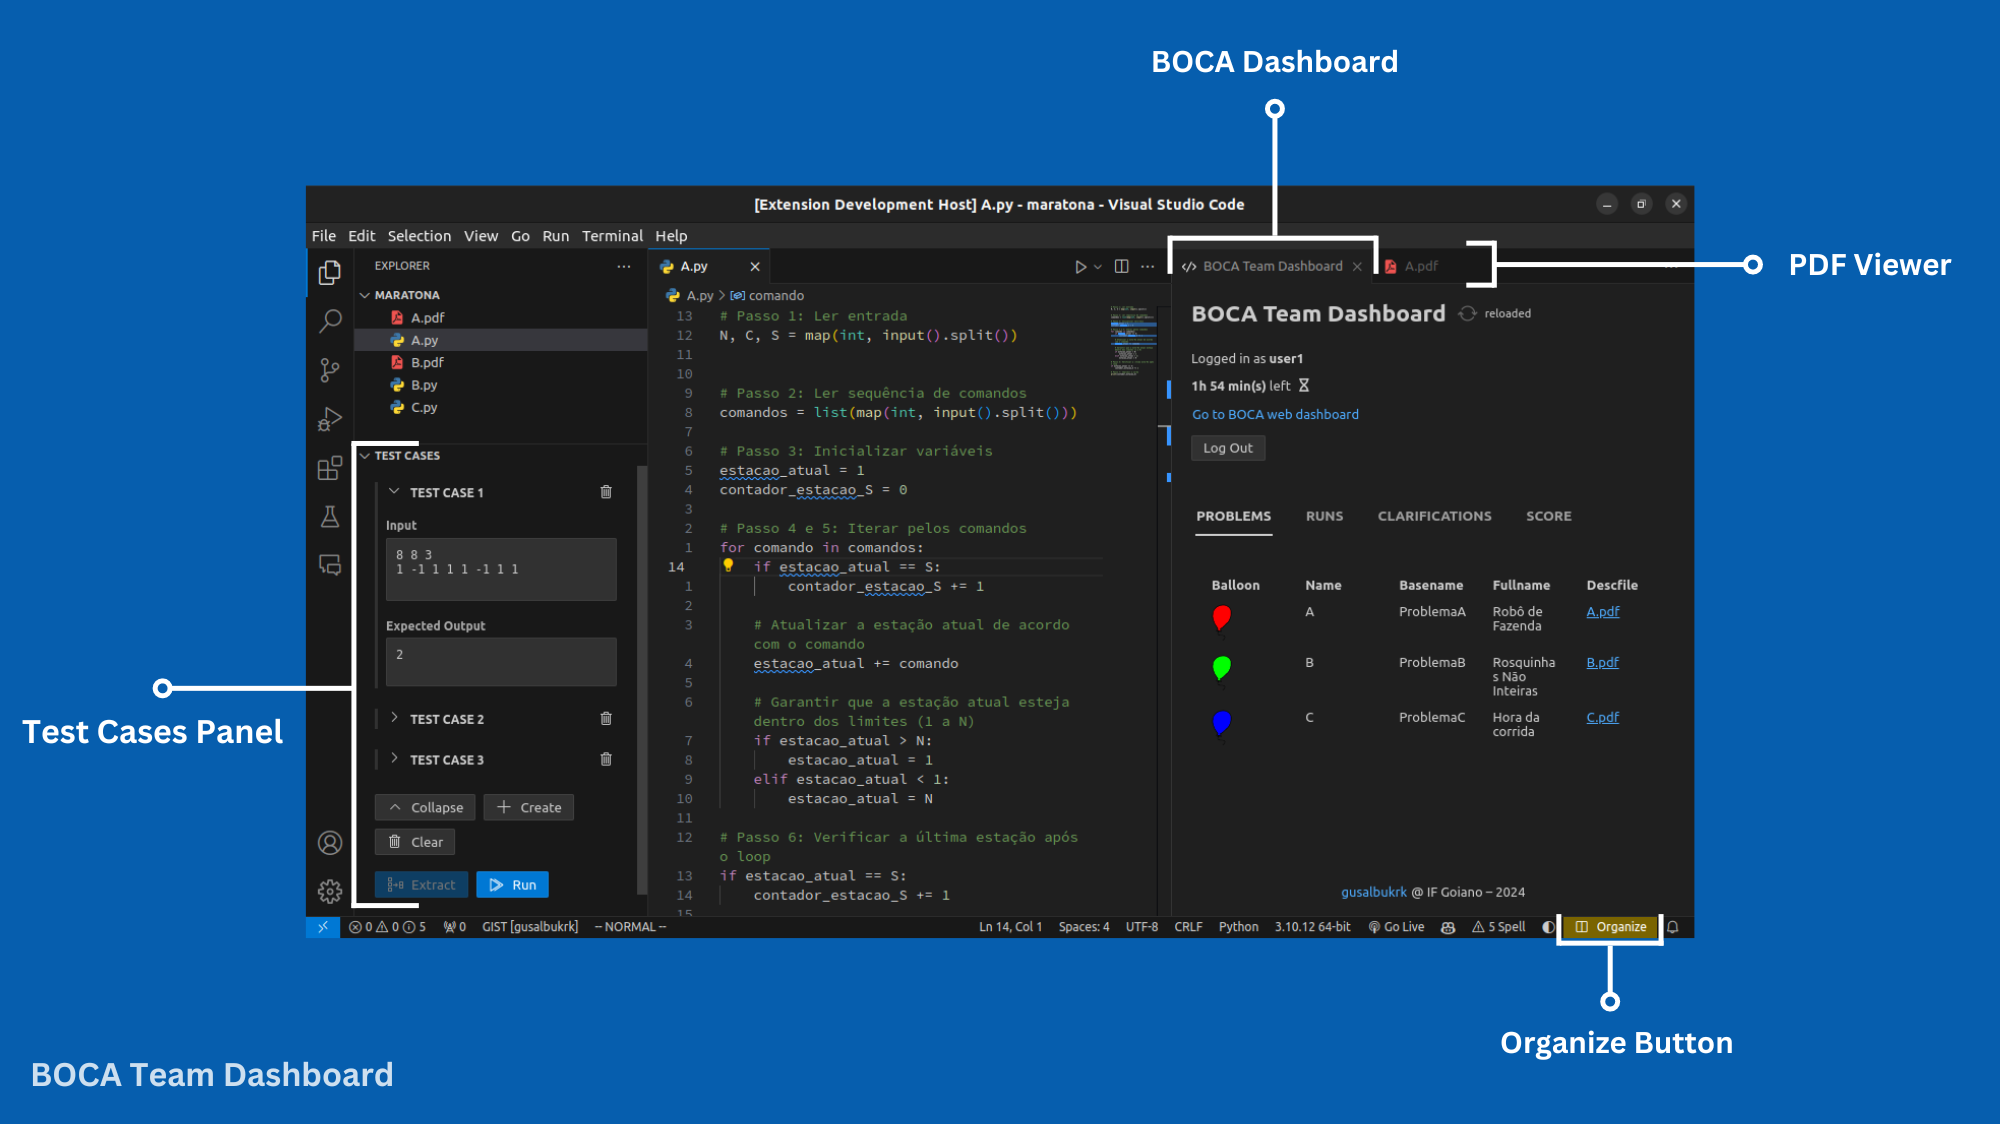
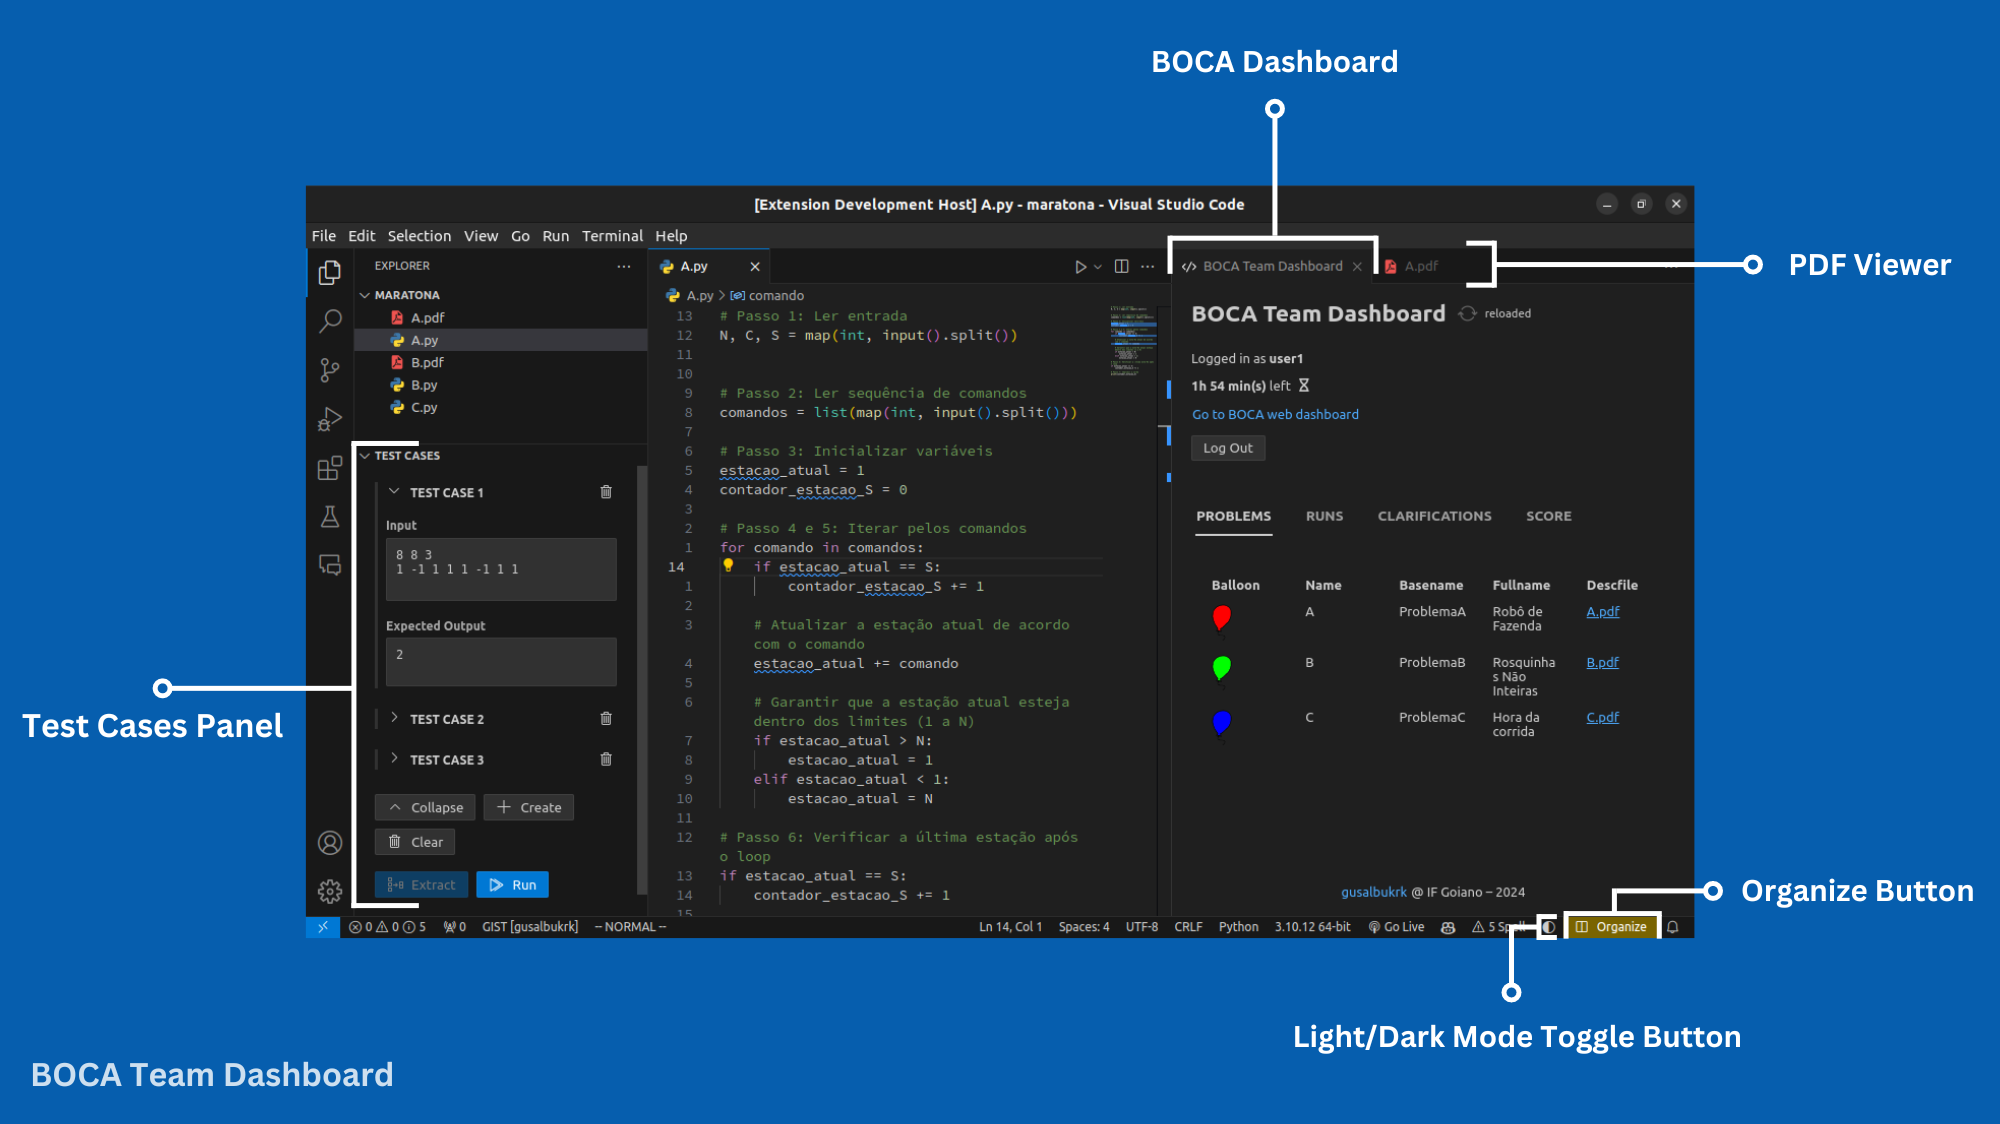
update `README`

Changed region(s): [[0.744, 0.7785, 0.992, 0.8719], [0.651, 0.8719, 0.868, 0.9342], [0.0, 0.6228, 0.155, 0.6851]]

diff --git a/README.md b/README.md
@@ -25,7 +25,7 @@ Quickly rearrange editor for optimized navigation.
 
 <img src="./media/organize.gif" width="800px" />
 
-### Support for light and dark modes
+### Support for light and dark modes and toggle button
 
 <img src="./media/theme.gif" width="800px" />
 </br>
